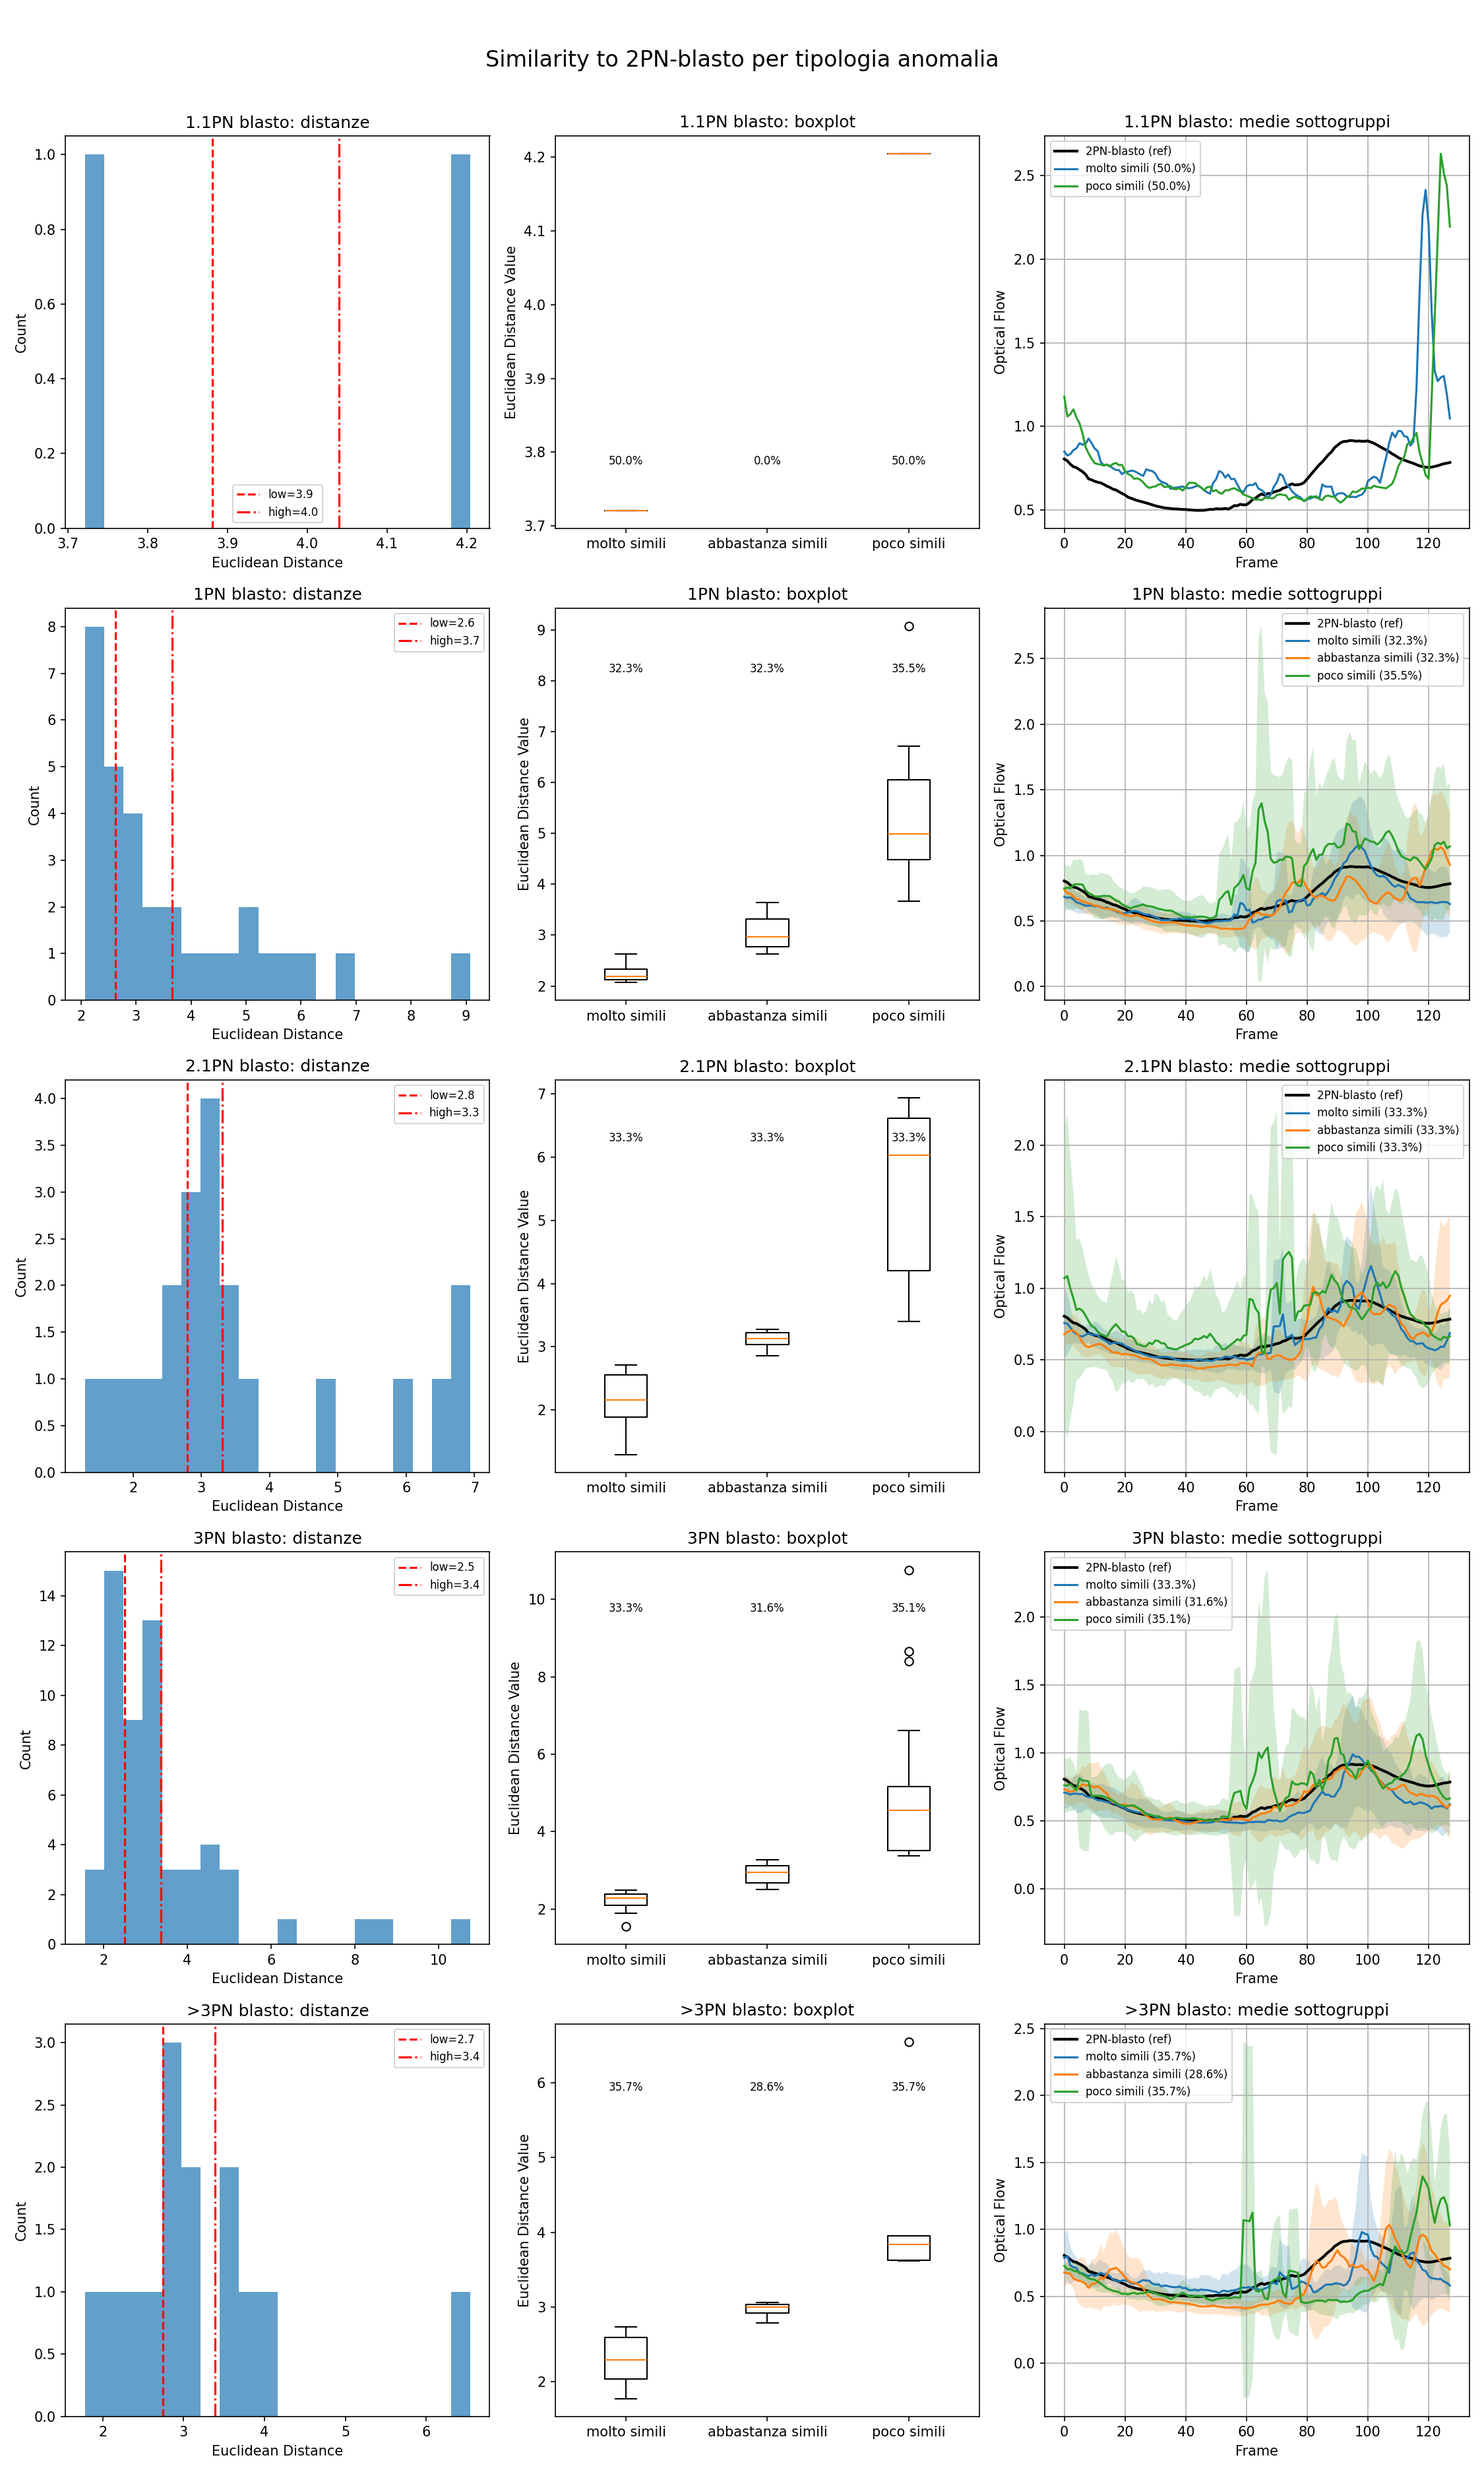
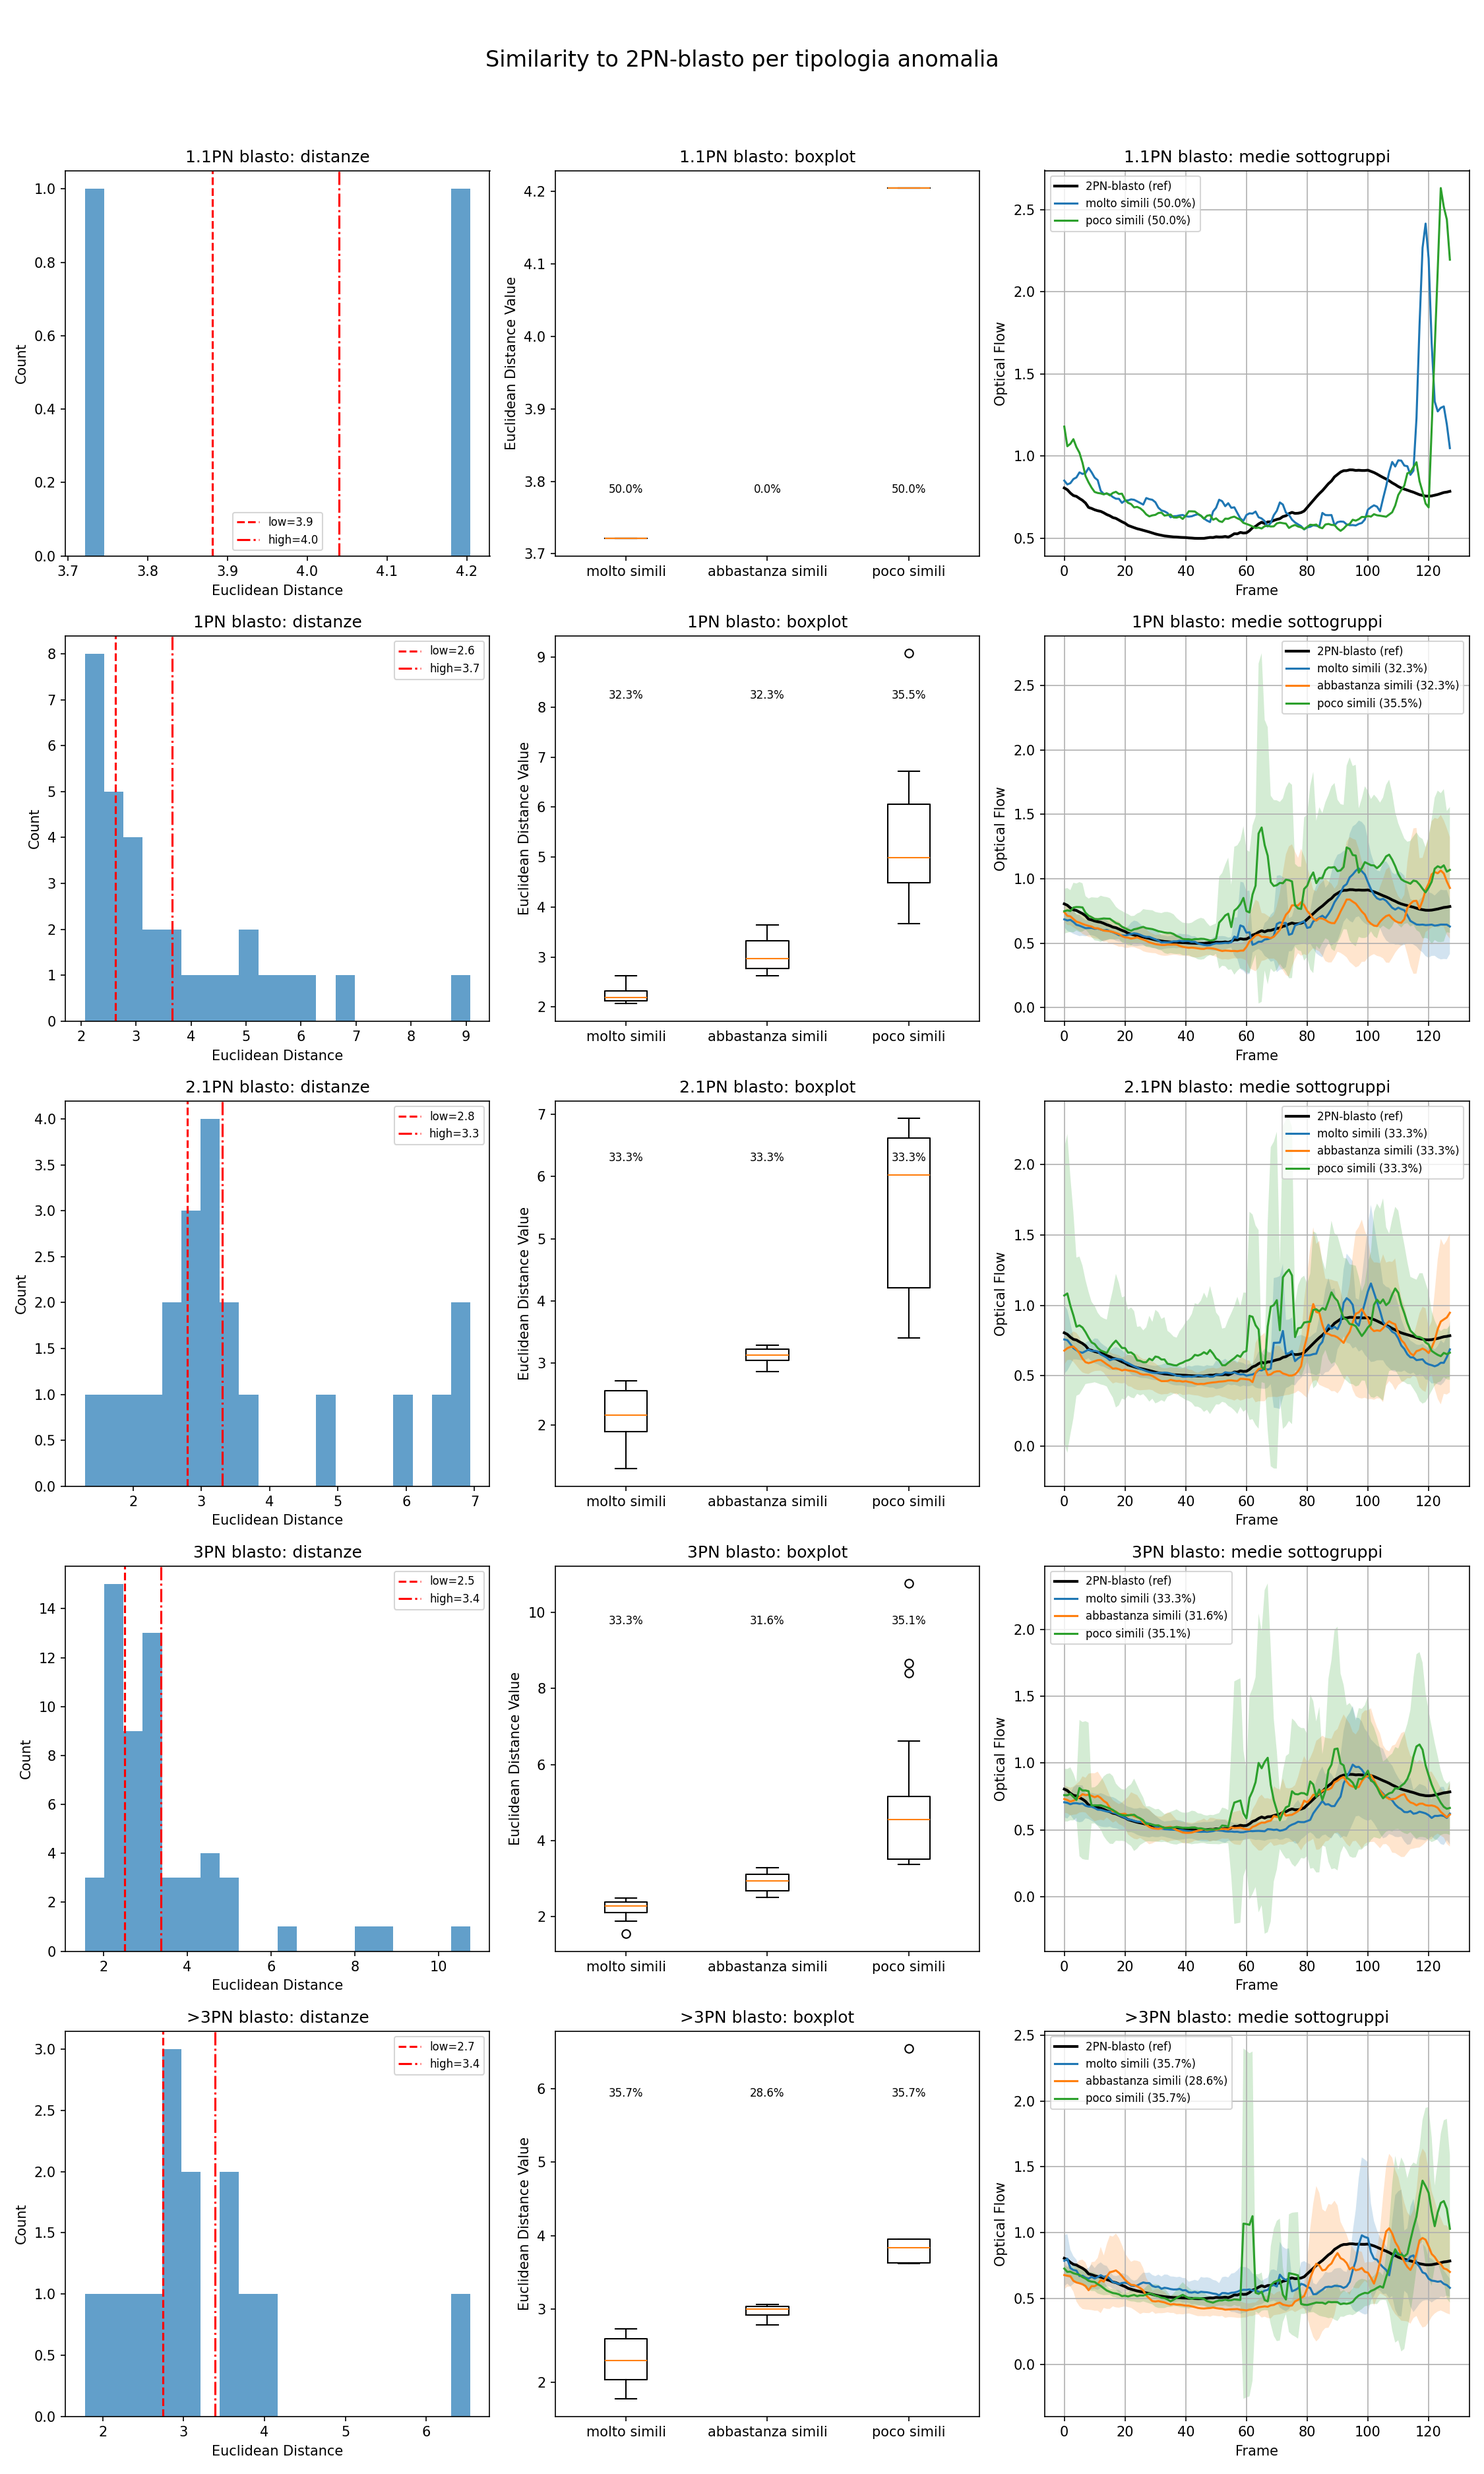
Added STD-based similarity analysis

diff --git a/_02_temporalData/analyze_temporal_flows_with_correction.py b/_02_temporalData/analyze_temporal_flows_with_correction.py
@@ -87,6 +87,13 @@ def plot_with_significance(ax, df_bl, df_nb, cols, intervals, label1, label2):
     ax.legend()
     ax.set_title(ax.get_title(), pad=20)
 
+def mean_std_x_calc(df_ref, cols_all):
+    ref_mean    = df_ref[cols_all].mean().values
+    ref_std     = df_ref[cols_all].std().values
+    x           = np.arange(len(cols_all))
+    return ref_mean, ref_std, x
+
+
 # === MAIN WORKFLOW ===
 
 def main():
@@ -220,13 +227,13 @@ def main():
     plt.close(fig4)
 
 
-    # ===Similarity-based subgroups per anomalie blasto ===
+
 
     # 1) Curva di riferimento: media 2PN-blasto
     df_ref = blasto[blasto['PN'] == '2PN']
-    ref_mean = df_ref[cols_all].mean().values
-    x = np.arange(len(cols_all))
+    ref_mean, ref_std, x = mean_std_x_calc(df_ref=df_ref, cols_all=cols_all)
 
+    # === PRIMA ANALISI: Similarity-based subgroups per anomalie blasto ===
     # 2) Lista di tipologie anomale
     anomalous_pns = [pn for pn in sorted(blasto['PN'].dropna().unique()) if pn != '2PN']
     n = len(anomalous_pns)
@@ -239,7 +246,7 @@ def main():
     for i, pn in enumerate(anomalous_pns):
         df_anomal = blasto[blasto['PN'] == pn].copy()
         # calcola distanze euclidee
-        distances = df_anomal[cols_all].apply(lambda row: np.linalg.norm(row.values - ref_mean), axis=1).values
+        distances   = df_anomal[cols_all].apply(lambda row: np.linalg.norm(row.values - ref_mean), axis=1).values
 
         # 4) Definisci due soglie (ad es. 33° e 66° percentile)
         thr_low, thr_high = np.percentile(distances, [33, 66])
@@ -293,10 +300,95 @@ def main():
         ax2.legend(fontsize=8)
         ax2.grid(True)
 
-    fig.tight_layout(rect=[0,0,1,0.96])
     fig.suptitle('Similarity to 2PN-blasto per tipologia anomalia', fontsize=16)
+    fig.tight_layout(rect=[0,0,1,0.96])
     fig.savefig(os.path.join(output_root, 'anomalous_similarity_analysis.png'), dpi=150)
     plt.close(fig)
+
+
+    # === SECONDA ANALISI PER DIFFERENZA CON 2PN: categorizzazione basata sulla deviazione standard di 2PN-blasto ===
+    # 2) Lista delle tipologie anomale (blasto)
+    anomalous_pns = [pn for pn in sorted(blasto['PN'].dropna().unique()) if pn != '2PN']
+    n = len(anomalous_pns)
+
+    # 3) Prepara figure n×3 subplot
+    fig2, axes2 = plt.subplots(n, 3, figsize=(15, 5*n), sharex=False)
+    # Normalizzo sempre a shape (n,3)
+    axes2 = axes2.reshape(n, 3)
+
+    for i, pn in enumerate(anomalous_pns):
+        df_ano = blasto[blasto['PN'] == pn].copy()
+
+        # 4) Per ogni embrione calcolo "RMS_z":
+        def rms_z(row):
+            z = (row.values - ref_mean) / ref_std
+            return np.sqrt(np.nanmean(z**2))
+        RMS_z = df_ano[cols_all].apply(rms_z, axis=1).values
+
+        # 5) Categorie basate su z_max:
+        #    RMS_z ≤ 1 → “molto simili”
+        #    1 < RMS_z ≤ 2 → “abbastanza simili”
+        #    RMS_z > 2 → “poco simili”
+        bins = [1.0, 2.0]
+        labels = ['molto simili','abbastanza simili','poco simili']
+        cats = np.digitize(RMS_z, bins=bins)  # 0,1,2
+        df_ano['RMS_z'] = RMS_z
+        df_ano['cat']   = cats
+        pct = [(cats == k).mean()*100 for k in [0,1,2]]
+
+        # --- Subplot 1: Istogramma di z_max ---
+        ax0 = axes2[i,0]
+        # Use automatic binning
+        use_automatic_binning = False
+        if use_automatic_binning:
+            iqr = np.percentile(RMS_z, 75) - np.percentile(RMS_z, 25)
+            bin_width = 2 * iqr / (len(RMS_z) ** (1/3))
+            num_bins = int((np.max(RMS_z) - np.min(RMS_z)) / bin_width)
+        else:
+            num_bins = 20
+        # Plot hist
+        counts, bins, _ = ax0.hist(RMS_z, bins=num_bins, alpha=0.7)
+        max_count = np.max(counts)
+        ax0.set_ylim(0, max_count * 1.1)  # padding
+        ax0.axvline(1, color='red', linestyle='--', label='1 std')
+        ax0.axvline(2, color='red', linestyle='-.', label='2 std')
+        ax0.set_title(f'{pn} blasto – RMS_z dist.', pad=10)
+        ax0.set_xlabel('RMS-z')
+        ax0.set_ylabel('Count')
+        ax0.legend(fontsize=8)
+
+        # --- Subplot 2: Boxplot delle tre categorie ---
+        ax1 = axes2[i,1]
+        data_box = [RMS_z[cats==k] for k in [0,1,2]]
+        ax1.boxplot(data_box, tick_labels=labels)
+        ax1.set_title(f'{pn} – boxplot RMS_z', pad=10)
+        ax1.set_ylabel('RMS-z')
+        ymax = np.nanmax(RMS_z) * 1.25 # 1.n = top padding of n% 
+        ax1.set_ylim(0, ymax)
+        for k,p in enumerate(pct):
+            ax1.text(k+1, ymax*0.9, f'{p:.1f}%', ha='center', fontsize=8)
+
+        # --- Subplot 3: Andamento medio dei sottogruppi vs ref_mean ---
+        ax2 = axes2[i,2]
+        ax2.plot(x, ref_mean, color='black', lw=2, label='2PN-ref')
+        for k in [0,1,2]:
+            grp = df_ano[df_ano['cat']==k]
+            if len(grp):
+                m = grp[cols_all].mean()
+                s = grp[cols_all].std()
+                ax2.plot(x, m, label=f'{labels[k]} ({pct[k]:.1f}%)')
+                ax2.fill_between(x, m-s, m+s, alpha=0.2)
+        ax2.set_title(f'{pn} blasto: medie per categoria')
+        ax2.set_xlabel('Frame')
+        ax2.set_ylabel('Optical Flow')
+        ax2.grid(True)
+        ax2.legend(fontsize=8)
+
+    fig2.suptitle('STD-based similarity vs 2PN-blasto', fontsize=16)
+    fig2.tight_layout(rect=[0,0,1,0.96])
+    fig2.savefig(os.path.join(output_root, 'anomalous_std_similarity.png'), dpi=150)
+    plt.close(fig2)
+
 
     print('Done. Tutti i plot sono stati salvati in:', output_root)
 
